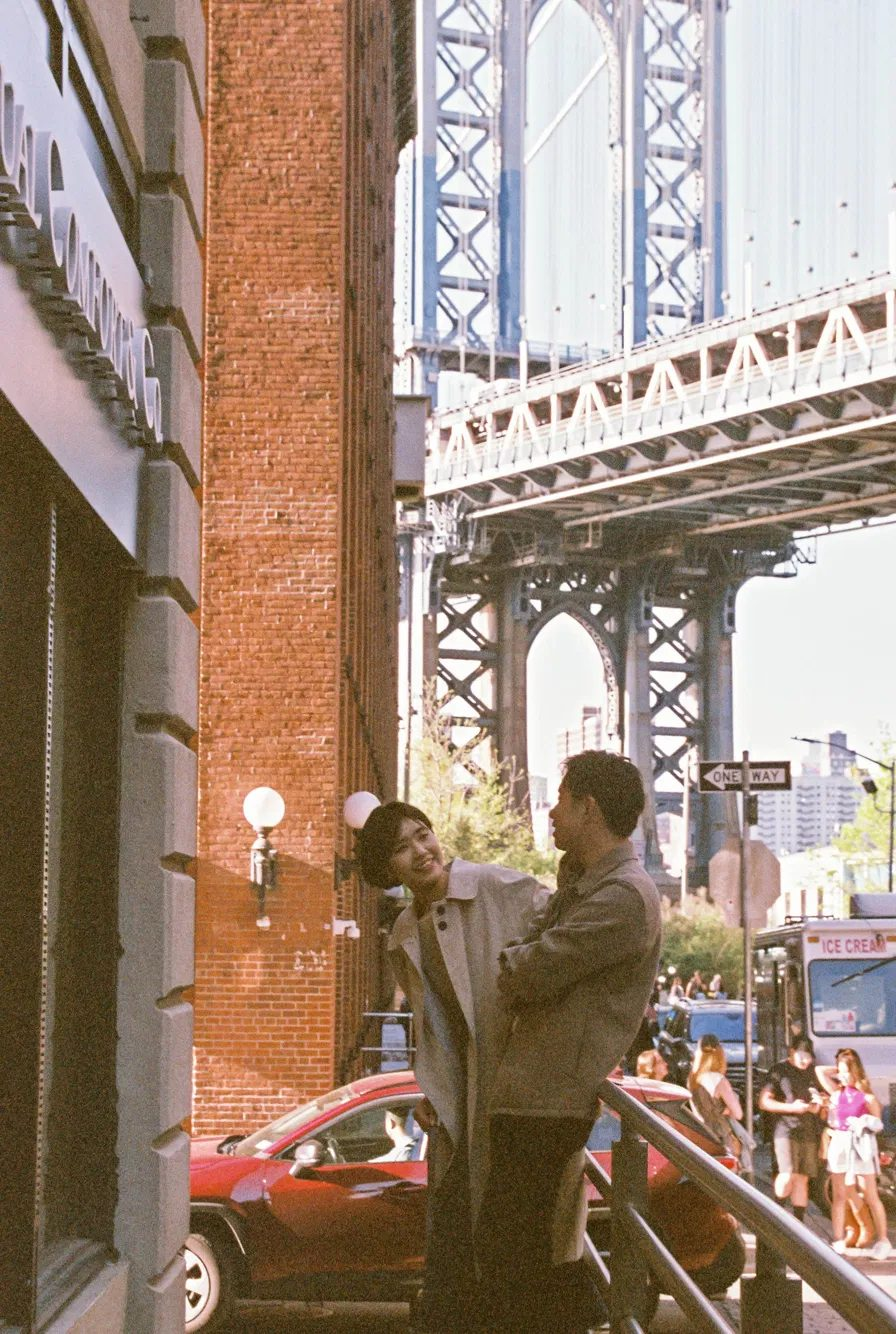
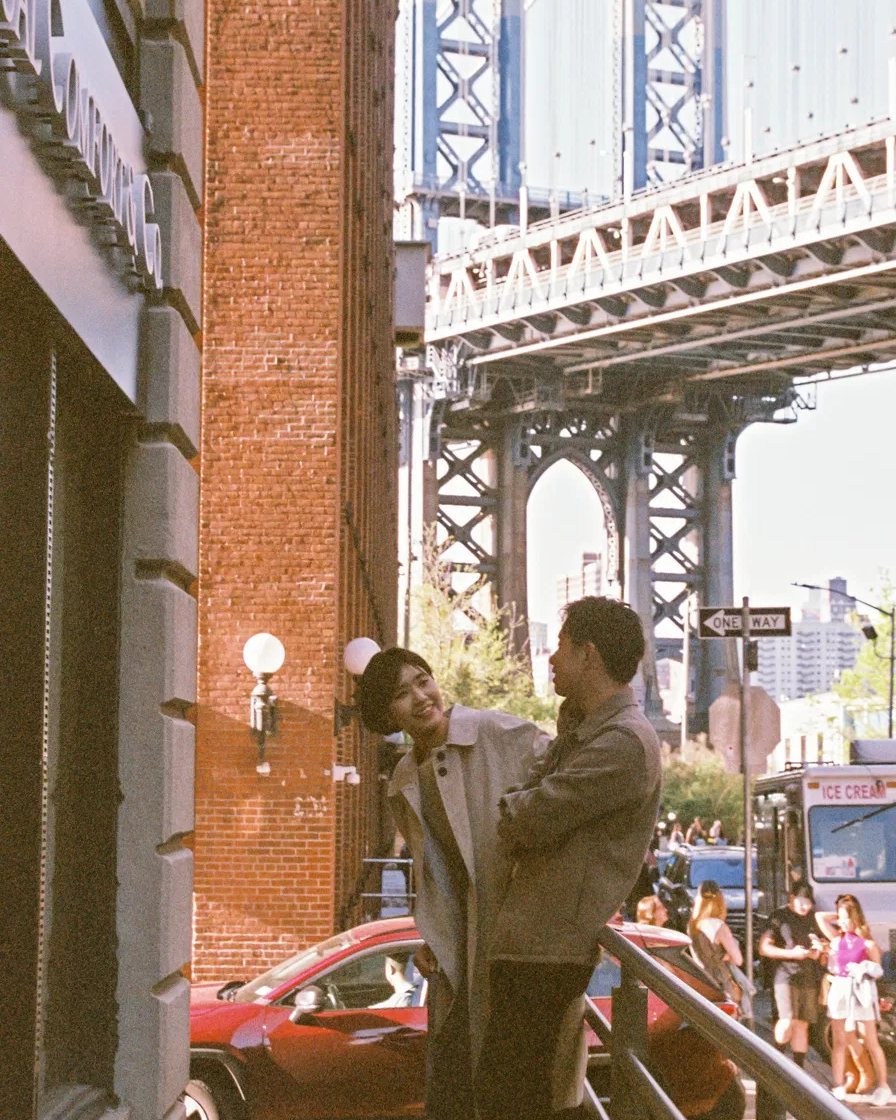
Hero: hand-drawn outline around couple, doodles, twinkling stars
Claude-Session: https://claude.ai/code/session_01LZkRR4tfwAuPGybhwXKPvh

diff --git a/index.html b/index.html
@@ -76,7 +76,23 @@ nav:after{content:"";display:block;height:6px;background:
 .hero h1 span{display:block}
 .hero h1 span:nth-child(2){margin-left:18%}
 .photo{position:relative;margin:26px auto 0;max-width:460px}
-.photo img,.photo .ph{width:100%;height:auto;aspect-ratio:4/5;object-fit:cover;object-position:50% 72%}
+.photo img,.photo .ph{width:100%;height:auto;aspect-ratio:4/5;object-fit:cover}
+.photo-doodle{position:absolute;left:0;top:0;width:100%;aspect-ratio:4/5;overflow:visible;pointer-events:none}
+.photo-doodle .outline{fill:none;stroke:#fff;stroke-width:5;stroke-linecap:round;stroke-linejoin:round;filter:url(#rough);
+  stroke-dasharray:1;stroke-dashoffset:1;animation:draw 2.6s .4s ease-out forwards;filter:drop-shadow(0 0 2px rgba(0,0,0,.25))}
+.photo-doodle .hand{fill:none;stroke:#fff;stroke-width:4;stroke-linecap:round;stroke-linejoin:round;opacity:0;animation:fadein .8s 2.4s forwards;filter:drop-shadow(0 1px 2px rgba(0,0,0,.35))}
+.photo-doodle .t{fill:#fff;stroke:none;font-family:"Caveat",cursive;font-size:44px;font-weight:600}
+.photo-doodle .tw{fill:#fff;transform-box:fill-box;transform-origin:center;animation:twinkle 1.8s var(--d,0s) ease-in-out infinite;filter:drop-shadow(0 0 3px rgba(255,255,255,.8))}
+.photo-doodle .hb{fill:none;stroke:#fff;stroke-width:3.5;transform-box:fill-box;transform-origin:center;animation:beat 2s var(--d,0s) ease-in-out infinite}
+@keyframes draw{to{stroke-dashoffset:0}}
+@keyframes fadein{to{opacity:1}}
+@keyframes twinkle{0%,100%{opacity:.25;scale:.6}50%{opacity:1;scale:1.15}}
+@keyframes beat{0%,60%,100%{scale:1}15%{scale:1.25}30%{scale:1.05}45%{scale:1.18}}
+.doodle svg{animation:twinkle2 2.2s ease-in-out infinite;transform-origin:center}
+.doodle:nth-of-type(2) svg{animation-delay:.8s}
+.doodle:nth-of-type(3) svg{animation-delay:1.5s}
+@keyframes twinkle2{0%,100%{opacity:.45;transform:scale(.8) rotate(0)}50%{opacity:1;transform:scale(1.12) rotate(12deg)}}
+@media (prefers-reduced-motion:reduce){.photo-doodle *,.doodle svg{animation:none!important;opacity:1!important;stroke-dashoffset:0!important}}
 .photo img,.film img,.polaroid img{filter:saturate(.9) contrast(1.04) sepia(.06)}
 .photo img{box-shadow:0 10px 24px -16px rgba(40,30,10,.6)}
 .photo .ph{
@@ -447,8 +463,27 @@ footer p{font-family:var(--script);font-size:22px;color:var(--ink-soft);margin-t
       <h1 class="marker"><span>We're getting</span><span>married!</span></h1>
 
       <div class="photo">
-        <img id="heroPhoto" alt="Yencheng & Yishin" hidden>
+        <img id="heroPhoto" width="896" height="1120" alt="Yencheng & Yishin" hidden>
         <div class="ph" id="heroPh">( our photo goes here )</div>
+        <svg class="photo-doodle" viewBox="0 0 896 1120" aria-hidden="true">
+          <path class="outline" pathLength="1" d="M618 1119L618 1116C618 1115 620 1114 616 1110C612 1106 600 1114 597 1095C594 1076 594 1018 597 996C600 974 609 971 612 961C615 951 608 947 613 937C618 927 634 911 641 900C648 889 651 882 656 869C661 856 666 835 669 819C672 803 674 787 674 772C674 757 673 745 668 731C663 717 646 702 644 689C642 676 656 665 657 653C658 641 655 625 651 615C647 605 642 599 633 594C624 589 611 585 600 585C589 585 574 588 566 592C558 596 556 598 553 606C550 614 549 633 546 642C543 651 537 653 536 660C535 667 536 675 538 682C540 689 545 698 546 703C547 708 546 712 542 713C538 714 538 709 523 706C508 703 470 701 455 693C440 685 442 664 436 656C430 648 427 647 422 644C417 641 411 639 406 638C401 637 399 636 393 637C387 638 377 641 372 643C367 645 366 646 362 651C358 656 352 660 350 672C348 684 349 711 350 721C351 731 352 730 356 734C360 738 371 738 373 746C375 754 364 768 366 781C368 794 376 814 382 827C388 840 396 847 399 857C402 867 402 875 403 886C404 897 399 912 402 924C405 936 420 950 422 961C424 972 415 966 414 992C413 1018 414 1095 414 1116L414 1119"/>
+          <g class="hand">
+            <path d="M150 300c-14-62 30-100 150-104s178 30 168 88c-8 50-72 70-160 66l-20 44-14-48c-74-8-118-20-124-46z"/>
+            <text x="308" y="268" text-anchor="middle" class="t">you + me</text>
+            <text x="308" y="314" text-anchor="middle" class="t">= always ♡</text>
+            <text x="22" y="780" class="t">ten years</text>
+            <text x="40" y="826" class="t">&amp; counting</text>
+            <path d="M250 778c40-20 80-36 120-58" stroke-dasharray="10 12"/><path d="M344 712l28 6-14 24"/>
+          </g>
+          <g class="tw-g">
+            <path class="tw" style="--d:0s" transform="translate(500 600)" d="M0 -14C1.5 -4 4 -1.5 14 0C4 1.5 1.5 4 0 14C-1.5 4 -4 1.5 -14 0C-4 -1.5 -1.5 -4 0 -14Z"/>
+            <path class="tw" style="--d:.7s" transform="translate(800 740) scale(.8)" d="M0 -14C1.5 -4 4 -1.5 14 0C4 1.5 1.5 4 0 14C-1.5 4 -4 1.5 -14 0C-4 -1.5 -1.5 -4 0 -14Z"/>
+            <path class="tw" style="--d:1.3s" transform="translate(120 480) scale(1.1)" d="M0 -14C1.5 -4 4 -1.5 14 0C4 1.5 1.5 4 0 14C-1.5 4 -4 1.5 -14 0C-4 -1.5 -1.5 -4 0 -14Z"/>
+            <path class="tw" style="--d:1.9s" transform="translate(560 560) scale(.6)" d="M0 -14C1.5 -4 4 -1.5 14 0C4 1.5 1.5 4 0 14C-1.5 4 -4 1.5 -14 0C-4 -1.5 -1.5 -4 0 -14Z"/>
+            <path class="hb" transform="translate(500 680) scale(1.2)" d="M0 8C-9 2-12-4-9-8C-6-11-1-10 0-6C1-10 6-11 9-8C12-4 9 2 0 8Z"/>
+            <path class="hb" style="--d:.9s" transform="translate(780 640) scale(.9)" d="M0 8C-9 2-12-4-9-8C-6-11-1-10 0-6C1-10 6-11 9-8C12-4 9 2 0 8Z"/>
+          </g>
+        </svg>
         <div class="doodle" style="right:-14px;top:-26px">
           <svg width="70" height="80" viewBox="0 0 70 80" fill="none" stroke="currentColor" stroke-width="2.4" stroke-linecap="round" stroke-linejoin="round"><path d="M35 6 C37 20 40 24 52 26 C40 28 37 32 35 46 C33 32 30 28 18 26 C30 24 33 20 35 6Z"/><path d="M56 50 C57 56 59 58 64 59 C59 60 57 62 56 68 C55 62 53 60 48 59 C53 58 55 56 56 50Z"/></svg>
         </div>
